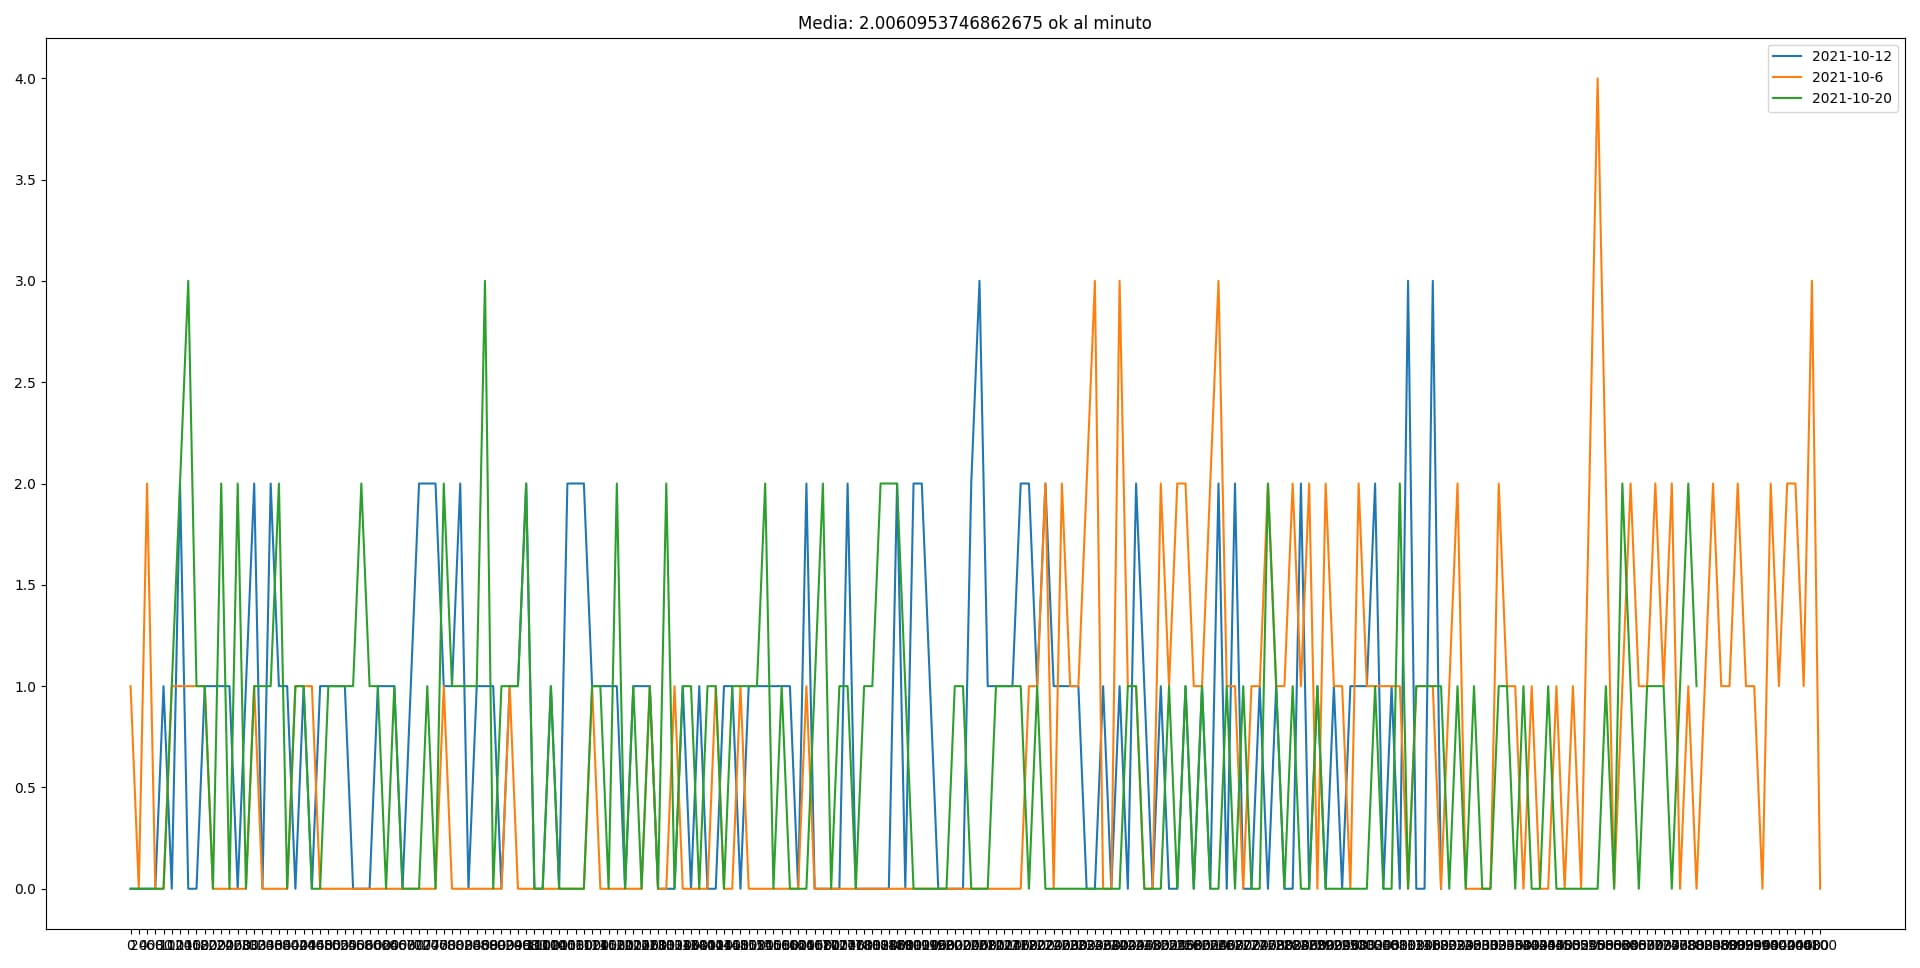
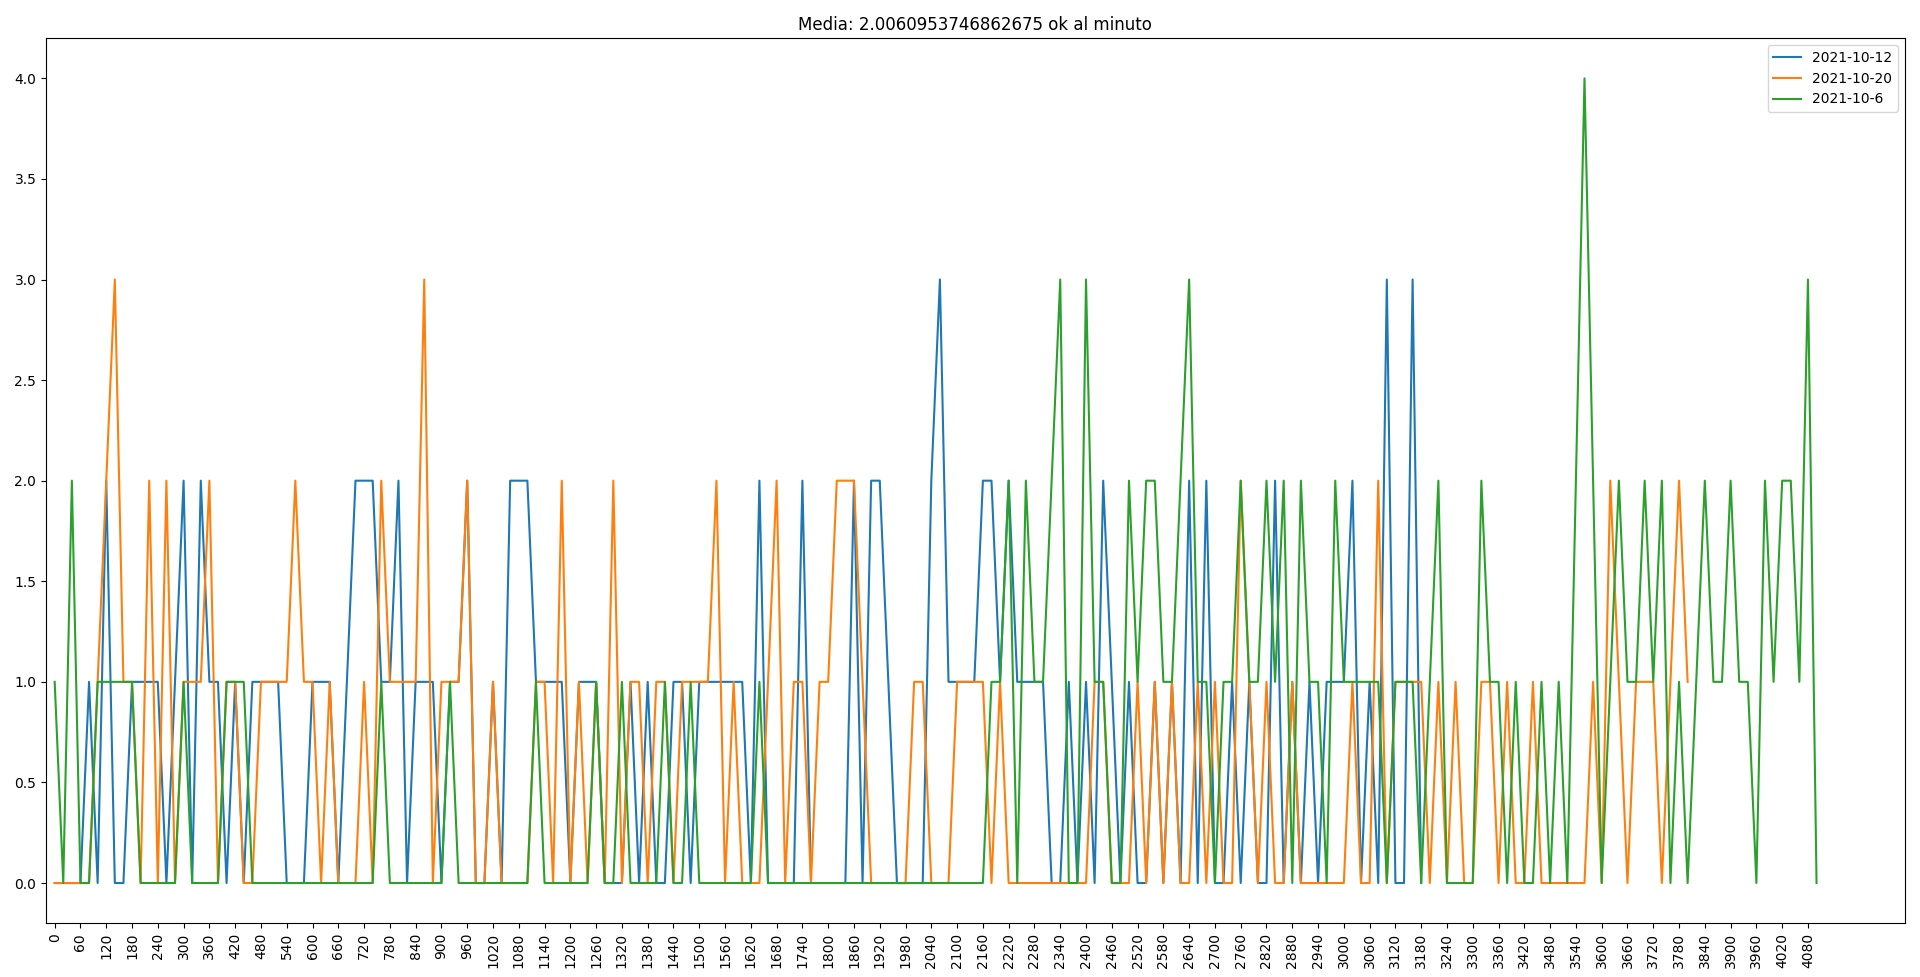
Sistemati grafici

Changed region(s): [[0.0, 0.093, 0.9688, 0.9917], [0.9062, 0.031, 1.0, 0.124], [0.4062, 0.0, 0.5625, 0.031]]

diff --git a/graph.py b/graph.py
@@ -15,8 +15,7 @@ for file in glob.glob("saves/save-(*).json"):
     durate.append(js.pop("durata"))
     totali[js.pop("data")] = js.pop("tot")
     frammenti.append(js)
-print(frammenti)
-print(durate)
+fig, ax = plt.subplots()
 
 for i in frammenti:
     #creo un grafico lineare per ogni file json salvato
@@ -24,11 +23,23 @@ for i in frammenti:
     plt.plot(i.keys(), i.values())
     plt.title("Media: {} ok al minuto".format(
         sum(totali.values()) * 60 / sum(durate)))
-    plt.subplots_adjust(top=0.961, bottom=0.04, left=0.024, right=0.992)
+    plt.xticks(rotation=90)
+    
+    plt.subplots_adjust(top=0.961, bottom=0.055, left=0.024, right=0.992)
     plt.legend(totali.keys())
+
+#sistemo un po' il grafico e lo mostro
+chiavi = ax.get_xticks()
+ax.set_xticks(chiavi[::len(chiavi)//60])
+ax.set_xlim(left=-1)
+mng = plt.get_current_fig_manager()
+mng.window.state("zoomed")
 plt.show()
 
 #creo un grafico a barre con i valori totali delle lezioni
 plt.title("Totale lezioni: {}".format(len(totali)))
 plt.bar(totali.keys(), totali.values())
+mng = plt.get_current_fig_manager()
+mng.window.state("zoomed")
+plt.subplots_adjust(top=0.97, bottom=0.03, left=0.04, right=0.96)
 plt.show()
